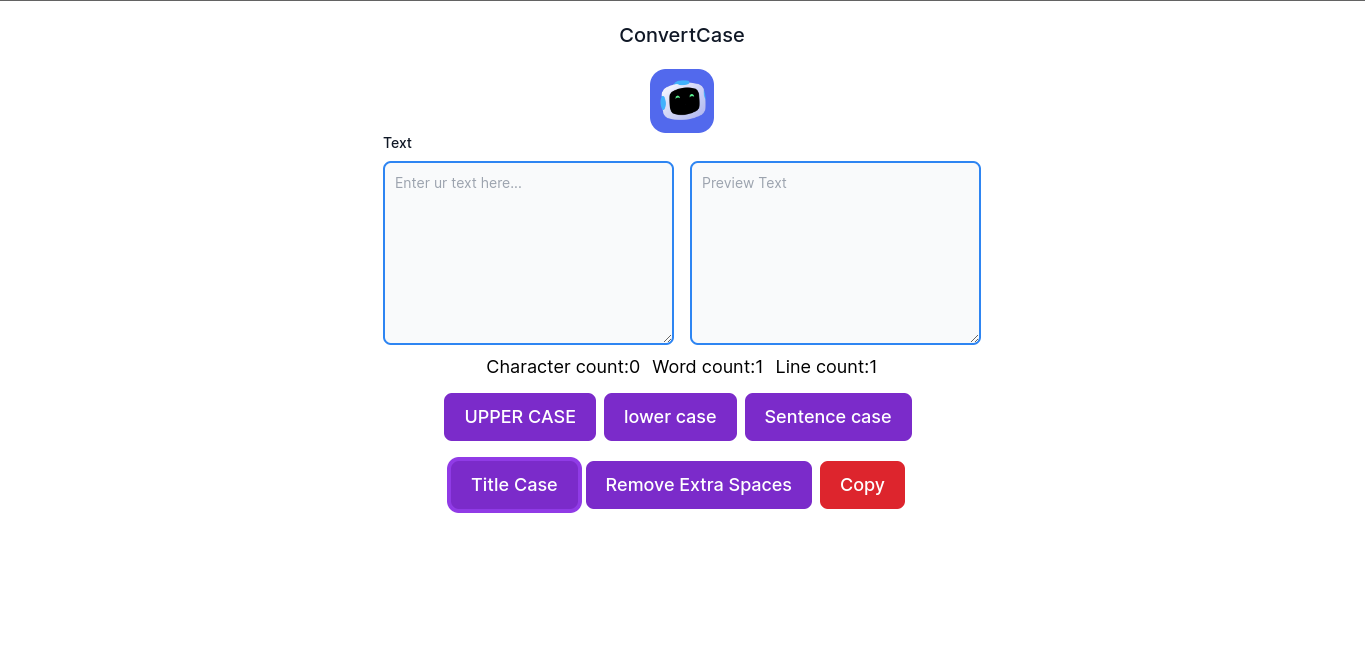
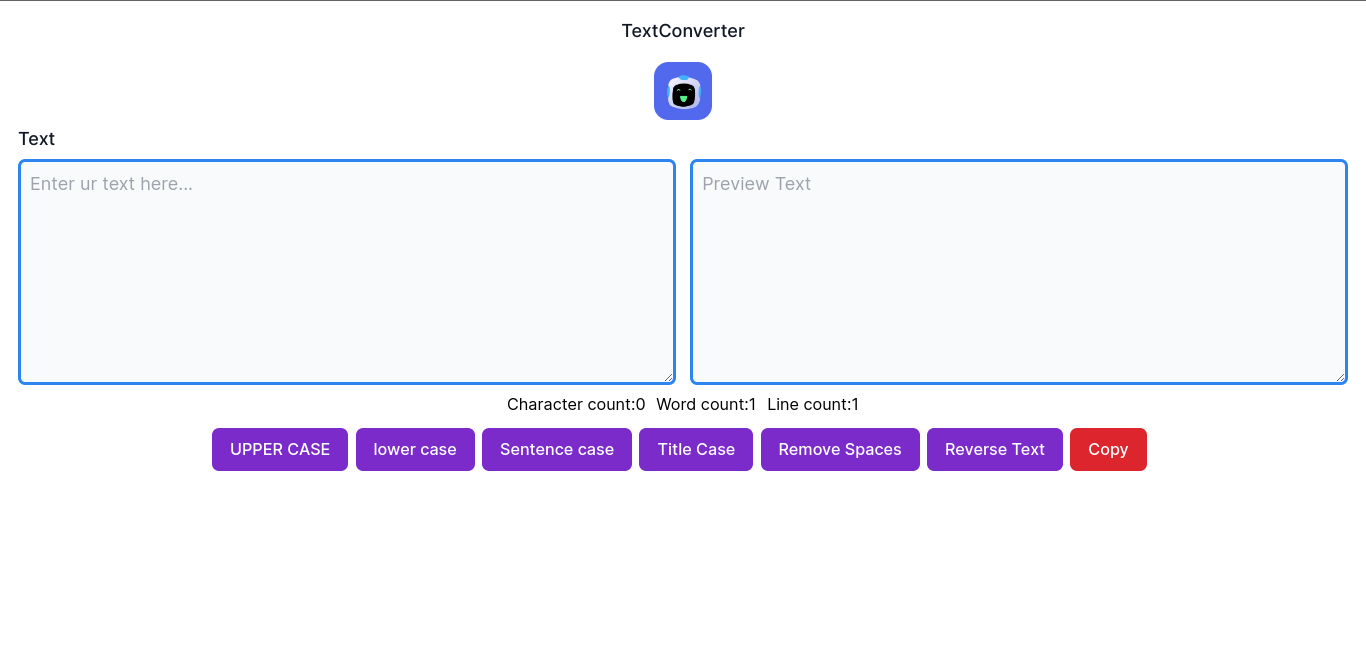
bug fixes

diff --git a/src/components/TextEdit.jsx b/src/components/TextEdit.jsx
@@ -78,12 +78,13 @@ const TextEdit = (props) => {
           <textarea id="message" rows="8" onChange={handleOnChange} className="md:block hidden p-2.5 w-full text-sm md:text-xl text-gray-900 bg-gray-50 rounded-lg border-blue-500 focus:ring-blue-500 focus:border-blue-500 border-2 md:border-4" placeholder={props.placeholder}></textarea>
 
           <textarea id="preview" rows="8" value={text} className="md:block hidden  p-2.5 w-full text-sm md:text-xl text-gray-900 bg-gray-50 rounded-lg border-blue-500 border-2 md:border-4 focus:ring-blue-500 focus:border-blue-500" placeholder={props.preview}></textarea>
-
+        </div>
+        <div className='flex justify-center items-center mx-3'>
           {/* for mobile */}
           <textarea id="message" rows="8" onChange={handleOnChange} value={text} className="md:hidden block p-2.5 w-full text-sm md:text-xl text-gray-900 bg-gray-50 rounded-lg border-blue-500 focus:ring-blue-500 focus:border-blue-500 border-2 md:border-4" placeholder={props.placeholder}></textarea>
         </div>
       </div>
-      {/* analyze dataa */}
+      {/* analyze data */}
       <div className="summary flex justify-center items-center space-x-3 mt-2">
         <div className='text-xs md:text-lg'>Character count:{text.length}</div>
         <div className='text-xs md:text-lg'>Word count:{text.trim().split(/\s+/).length}</div>
@@ -93,6 +94,7 @@ const TextEdit = (props) => {
 
       <div className="buttonMiddle flex justify-center items-center">
         <div className="flex justify-center items-center mt-3">
+          {/* for pc */}
           <button type="button" className="hidden md:block focus:outline-none text-xs  md:text-lg  text-white bg-purple-700 hover:bg-purple-900 focus:ring-4 focus:ring-purple-600 font-medium rounded-lg px-5 py-2.5 mr-2 mb-2 dark:focus:ring-purple-700" onClick={handleUpClick}>{props.upperCase}</button>
 
           <button type="button" className="hidden md:block focus:outline-none text-white bg-purple-700 hover:bg-purple-900 focus:ring-4 focus:ring-purple-600 font-medium rounded-lg text-xs md:text-lg  px-5 py-2.5 mr-2 mb-2 dark:focus:ring-purple-700" onClick={handleLowerClick}>{props.lowerCase}</button>
@@ -109,6 +111,7 @@ const TextEdit = (props) => {
         </div>
       </div>
 
+      {/* for phone */}
       <div className="flex justify-center items-center">
         <button type="button" className="block md:hidden focus:outline-none text-xs  md:text-lg  text-white bg-purple-700 hover:bg-purple-900 focus:ring-4 focus:ring-purple-600 font-medium rounded-lg px-5 py-2.5 mr-2 mb-2 dark:focus:ring-purple-700" onClick={handleUpClick}>{props.upperCase}</button>
 
@@ -125,10 +128,7 @@ const TextEdit = (props) => {
         <button type="button" className="block md:hidden focus:outline-none text-white bg-purple-700 hover:bg-purple-900 focus:ring-4 focus:ring-purple-600 font-medium rounded-lg text-xs  md:text-lg px-5 py-2.5 mr-2 mb-2" onClick={handleReverseClick}>{props.reverse}</button>
 
         <button type="button" className="block md:hidden focus:outline-none text-white bg-red-600 hover:bg-red-900 focus:ring-4 focus:ring-red-500 font-medium rounded-lg text-xs  md:text-lg px-5 py-2.5 mr-2 mb-2" onClick={handleCopyClick}>{props.copy}</button>
-
       </div>
-
-
     </>
   )
 }

diff --git a/index.html b/index.html
@@ -11,14 +11,13 @@
     />
     <meta
       name="keywords"
-      content="text converter, uppercase, lowercase, sentence case, title case, remove extra spaces, copy text, reverse text, pratyushsingha, pratyush singha projects, pratyushsingha projects, prattyushsingha github"
+      content="text converter, uppercase, lowercase, sentence case, title case, remove extra spaces, copy text, reverse text, pratyushsingha, pratyush singha projects, pratyushsingha projects, pratyushsingha github converttcase.net"
     />
     <meta name="author" content="pratyushsingha" />
     <title>
       Text Converter - Convert Text to Uppercase, Lowercase, Sentence Case,
       Title Case, and More
     </title>
-
     <!-- Open Graph meta tags -->
     <meta
       property="og:title"
